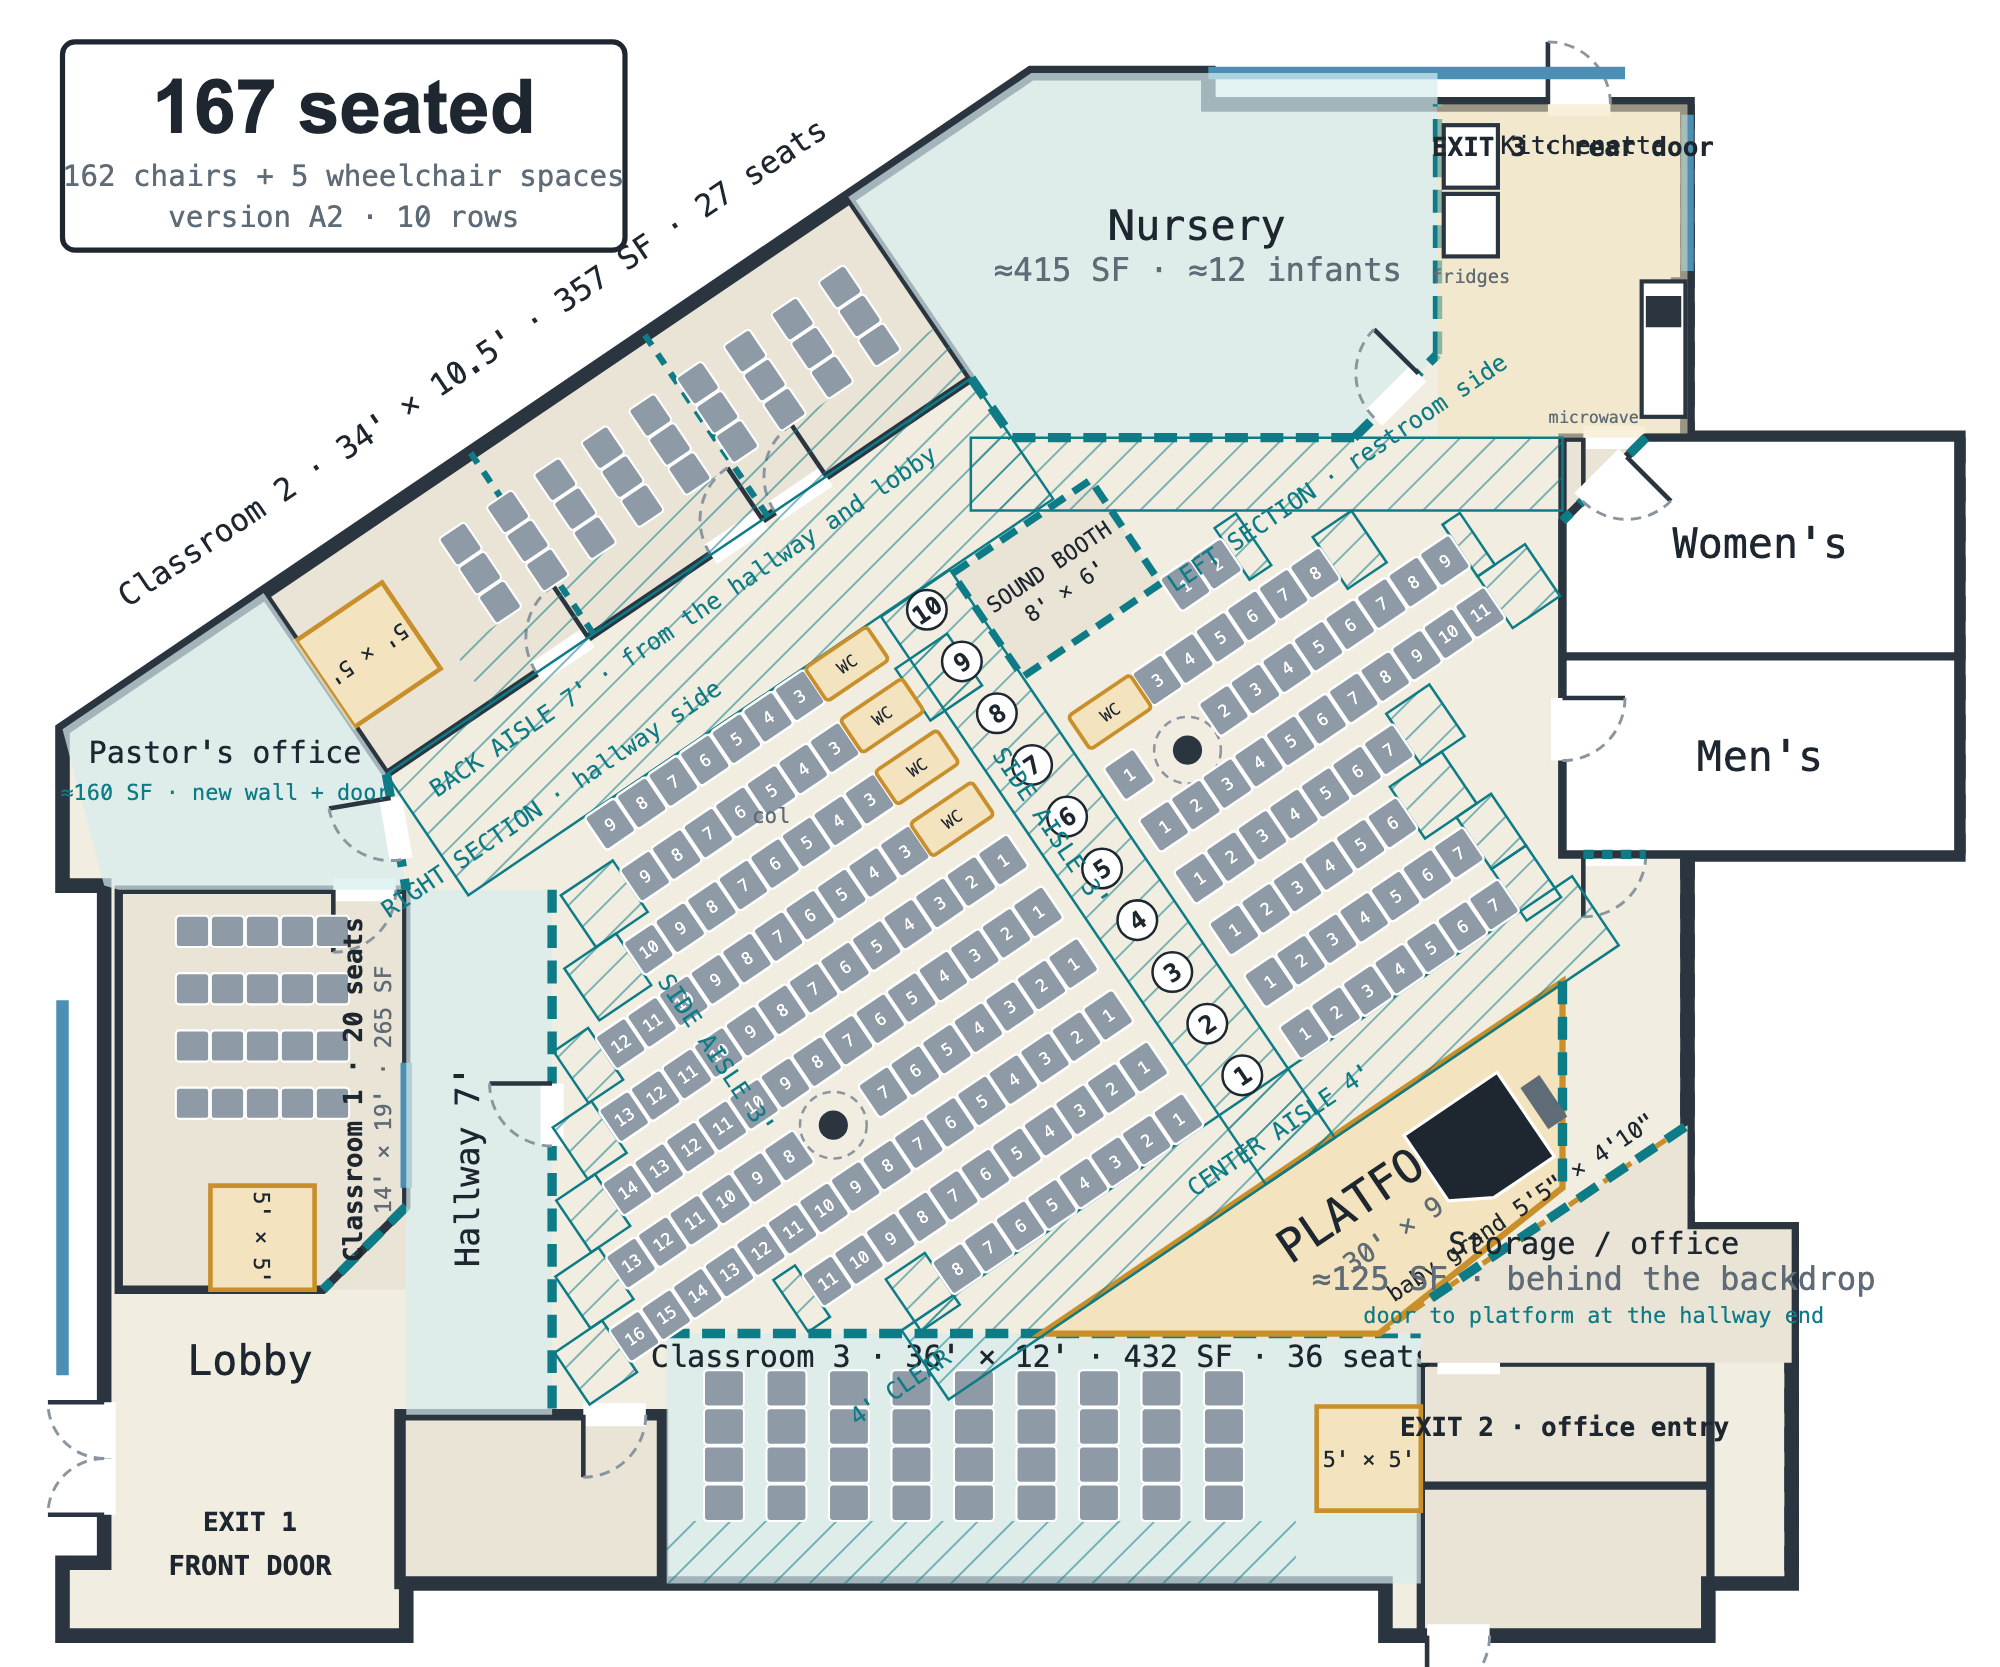
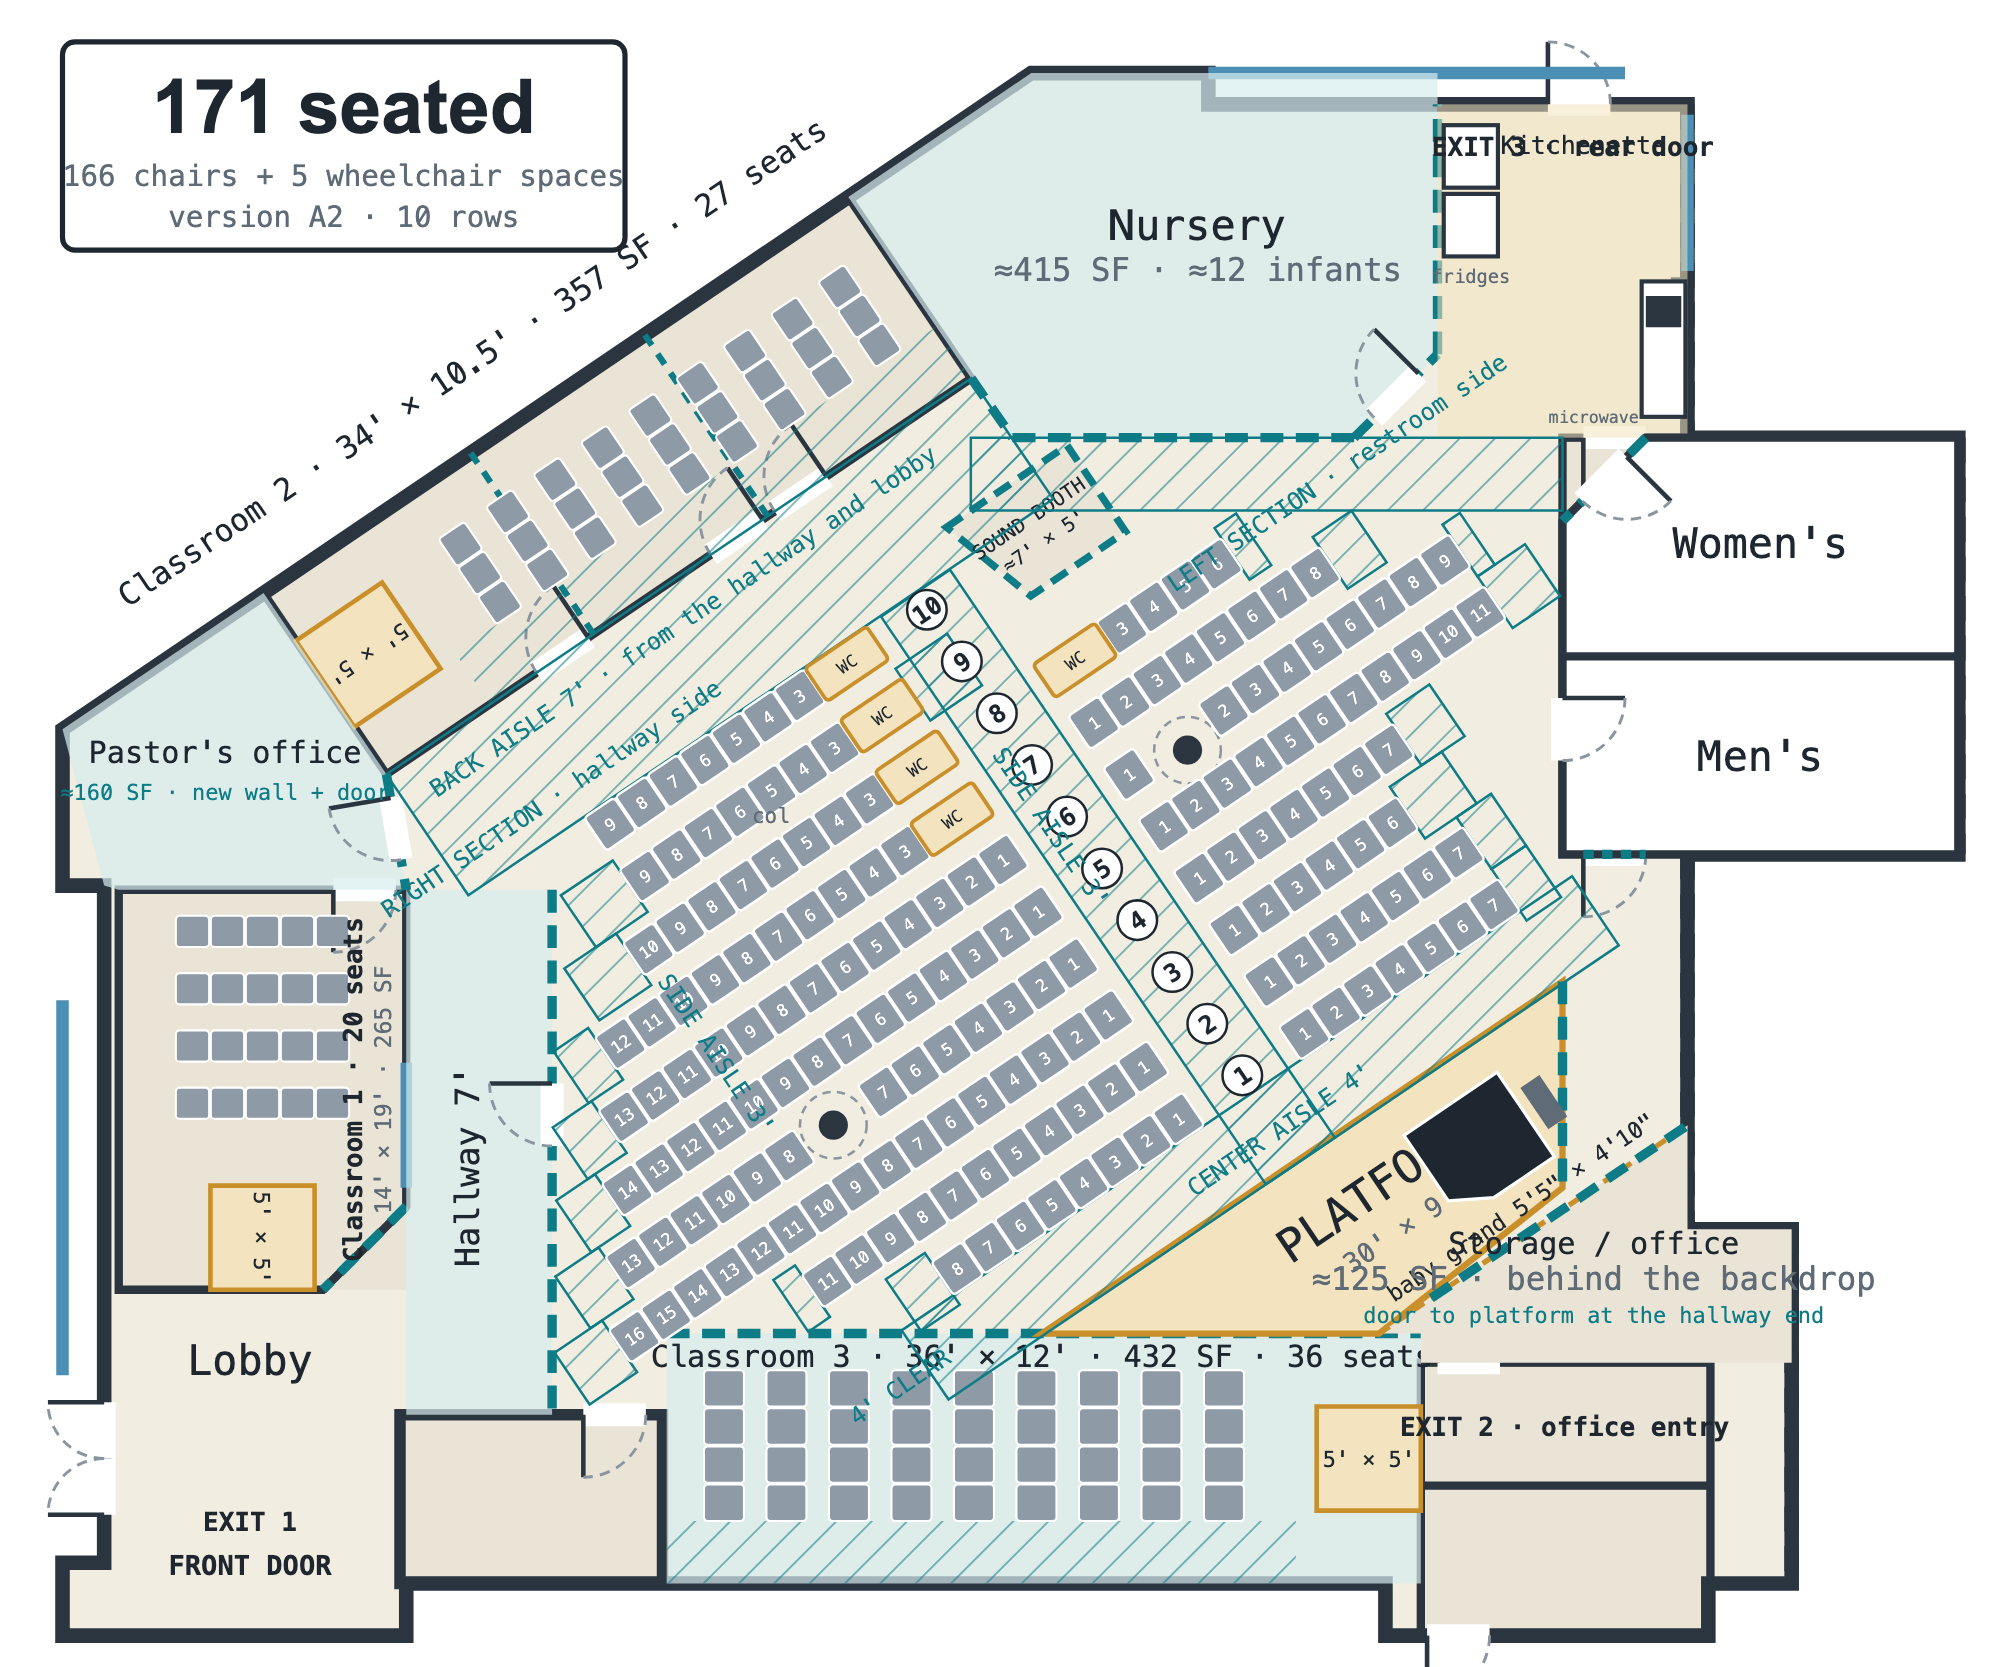
Trapezoid sound booth, neutral wording

Changed region(s): [[0.465, 0.2807, 0.589, 0.4679], [0.093, 0.0312, 0.155, 0.0936]]

diff --git a/plans.html b/plans.html
@@ -103,14 +103,14 @@
     <div class="sub">±5,685 RSF · 1 story · built 1999 · plan drawn 2026-10-20</div>
   </header>
 
-  <p>Two plans at the same scale. The first is the suite as it is today, traced from the Newmark listing brochure's floor plan and checked against the 20 walk-through photos. The second lays it out as a church with the main entry at the glass double door on the left (the building's visible front), the nursery beside the restrooms, and three classrooms. With the front door on the left and the restrooms on the right, the platform goes in the parking-lot corner and the seating fans toward it.</p>
+  <p>Two plans at the same scale. The first is the suite as it is today, traced from the Newmark listing brochure's floor plan and checked against the 20 walk-through photos. The others lay it out as a church with the main entry at the glass double door on the left (the building's visible front), the nursery beside the restrooms, and three classrooms. With the front door on the left and the restrooms on the right, the platform goes in the parking-lot corner and the seating fans toward it.</p>
   <p class="note">Accuracy: the brochure plan was scaled so the outlined suite encloses 5,685 SF, then cross-checked against 3-ft doors and 2×4 ceiling tiles. Expect ±2 ft on any dimension. The two columns are placed from the photos only; the brochure does not show them.</p>
 
   <h2>Existing conditions <span class="tag">as toured 2026-10-19</span></h2>
   <div class="plan" id="existing"></div>
   <div class="legend"><span class="l-exist">existing enclosed room</span><span class="l-glass">glass wall / window</span><span>door swing shown as arc</span><span>dashed = demising wall to leased space</span></div>
 
-  <h2>The plan: version A2 <span class="tag">corner platform, parking-lot corner · the preferred layout</span></h2>
+  <h2>Version A2 <span class="tag">corner platform, parking-lot corner</span></h2>
   <p>Lobby inside the left front door, 7 ft hallway up Classroom 1's wall to the back corner, 7 ft back aisle along the office row, nursery and women's room with 45° corner doors onto the back aisle, a kitchenette in the corner between them, three classrooms, corner platform in the parking-lot corner with the vestibule as the stage door.</p>
   <div class="plan" id="proposedB"></div>
   <div class="legend"><span class="l-exist">existing room, reused</span><span class="l-new">new wall / new room</span><span class="l-plat">platform</span><span class="l-chair">chair</span></div>
@@ -134,7 +134,7 @@
   </div>
 
   <h2>Other versions <span class="tag">A1 earlier · B south platform · C west platform</span></h2>
-  <p>Version A is the corner-platform family. A1 is the earlier pass of it; A2 above is the current one. Versions B and C keep the same rooms and move the platform to another wall; neither was chosen.</p>
+  <p>Version A is the corner-platform family. A1 is the earlier pass of it; A2 above is the current one. Versions B and C keep the same rooms and move the platform to another wall.</p>
   <h3 class="alt">Version A1, the earlier corner-platform layout</h3>
   <div class="plan" id="proposedA1"></div>
   <p class="verdict" id="verdictA1"></p>
@@ -165,7 +165,7 @@
         <thead><tr><th>Room (all options)</th><th>Size</th><th class="num">SF</th><th class="num">Seats</th></tr></thead>
         <tbody>
           <tr><td>Nursery (north strip plus the triangle to the classroom wall, 2 new walls, 45° corner door onto the back aisle; no teaching area)</td><td>irregular</td><td class="num">≈415</td><td class="num">≈12 infants</td></tr>
-          <tr><td>Sound booth, carved out of the back middle of the seating beside the center aisle</td><td>8 × 6</td><td class="num">48</td><td class="num"></td></tr>
+          <tr><td>Sound booth, trapezoid at the back middle of the seating beside the center aisle (7 ft at the back, 5.5 ft at the front, 5 ft deep; 2 ft of it sits in the back aisle, leaving 5 ft of aisle behind it)</td><td>≈7 × 5</td><td class="num">≈31</td><td class="num"></td></tr>
           <tr><td>Kitchenette (the old alcove): microwave, two refrigerators, rear exit path kept clear</td><td>12 × 16</td><td class="num">192</td><td class="num"></td></tr>
           <tr><td>Classroom 1 (existing 14 × 19 room, window into hall, corner cut at 45° toward the lobby), 5 × 5 teaching area, no aisle</td><td>14 × 19</td><td class="num">265</td><td class="num" id="seatsC1">—</td></tr>
           <tr><td>Classroom 2 (3 offices, remove 2 partitions), 5 × 5 teaching area</td><td>34 × 10.5</td><td class="num">357</td><td class="num" id="seatsC2">—</td></tr>
@@ -349,7 +349,7 @@
   const inPoly = (pt, poly) => { let c = false; for (let i = 0, j = poly.length - 1; i < poly.length; j = i++) { const a = poly[i], b = poly[j]; if ((a[1] > pt[1]) !== (b[1] > pt[1]) && pt[0] < (b[0] - a[0]) * (pt[1] - a[1]) / (b[1] - a[1]) + a[0]) c = !c; } return c; };
   const area = (poly) => Math.abs(poly.reduce((acc, p, i) => { const q = poly[(i + 1) % poly.length]; return acc + p[0] * q[1] - q[0] * p[1]; }, 0)) / 2;
   const Nn = [0.561, 0.828];
-  const BOOTH = (F) => [F.toW(-6, 7.25), F.toW(2, 7.25), F.toW(2, 13.25), F.toW(-6, 13.25)];
+  const BOOTH = (F) => [F.toW(-5, 5.25), F.toW(2, 5.25), F.toW(2, 10.25), F.toW(-3.5, 10.25)];
   const HALL = [Q(10.6), [48.6, 25], [75, 25], [75, 45], [81, 45], [81, 63], [86, 63], [86, 69.4], [68.2, 69.4], [68.2, 68], [32, 68], [32, 71.9], [26.5, 71.9], [26.5, 46.7], [19.5, 46.7], Q(44.5)];
   const OFFICE = [[3, 39], S(44.5), Q(44.5), [19.5, 46.7], [5.7, 46.7], [5, 46.5]];
   const FACEBAND = [Q(10.6), Q(44.5), [Q(44.5)[0] + 7 * Nn[0], Q(44.5)[1] + 7 * Nn[1]], [Q(10.6)[0] + 7 * Nn[0], Q(10.6)[1] + 7 * Nn[1]]];
@@ -541,7 +541,7 @@
       if (A1) { o += text(77, 65.5, 'backstage', 'fill="var(--muted)" font-size="1.3" text-anchor="middle"') + text(77, 67.2, 'stage door ↓', 'fill="var(--muted)" font-size="1.1" text-anchor="middle"') + text(75.1, 72.9, 'Vestibule', labS) + text(75.1, 79.6, 'stage door / exit', labS); }
       else o = platformExtras(o, newWall);
       if (A1) { const sd = frame.toW(-31.5, 2.6); o += `<g transform="rotate(-34.1 ${fmt(sd[0])} ${fmt(sd[1])})">${rect(fmt(sd[0]), fmt(sd[1]), 4.5, 2, 'fill="none" stroke="var(--wall)" stroke-width="0.2"')}<text x="${fmt(sd[0] + 2.25)}" y="${fmt(sd[1] + 1.5)}" fill="var(--muted)" font-size="1.05" text-anchor="middle">sound</text></g>`; }
-      else { const bp = BOOTH(frame); o += poly(bp, 'fill="var(--exist)" stroke="var(--accent)" stroke-width="0.35" stroke-dasharray="0.9 0.5"'); const bc = frame.toW(-2, 10.25); o += `<text x="${fmt(bc[0])}" y="${fmt(bc[1])}" fill="var(--ink)" font-size="1.05" text-anchor="middle" transform="rotate(-34.1 ${fmt(bc[0])} ${fmt(bc[1])})"><tspan x="${fmt(bc[0])}" dy="-0.3">Sound booth</tspan><tspan x="${fmt(bc[0])}" dy="1.4">8' × 6'</tspan></text>`; }
+      else { const bp = BOOTH(frame); o += poly(bp, 'fill="var(--exist)" stroke="var(--accent)" stroke-width="0.35" stroke-dasharray="0.9 0.5"'); const bc = frame.toW(-1.5, 7.75); o += `<text x="${fmt(bc[0])}" y="${fmt(bc[1])}" fill="var(--ink)" font-size="0.95" text-anchor="middle" transform="rotate(-34.1 ${fmt(bc[0])} ${fmt(bc[1])})"><tspan x="${fmt(bc[0])}" dy="-0.3">Sound booth</tspan><tspan x="${fmt(bc[0])}" dy="1.3">≈7' × 5'</tspan></text>`; }
       const bl = frame.toW(-14, 3.6);
       o += `<text x="${fmt(bl[0])}" y="${fmt(bl[1])}" fill="var(--muted)" font-size="1.2" text-anchor="middle" transform="rotate(-34.1 ${fmt(bl[0])} ${fmt(bl[1])})">back aisle 7' wide</text>`;
       const al = frame.toW(-8, 22);
@@ -646,7 +646,7 @@
     o += poly([[40.72, 13.45], [49.5, 7.5], [69, 7.5], [69, 21], [65, 25], [48.6, 25], [46.62, 22.15]], 'fill="var(--accent-soft)" stroke="none" opacity="0.7"');
     o += line(46.62, 22.15, 48.6, 25, newWall) + line(48.6, 25, 65, 25, newWall) + line(65, 25, 69, 21, newWall) + line(69, 21, 69, 9, newWall) + door(68.08, 21.92, 135, -1);
     o += text(57.5, 15.5, 'Nursery', lab) + text(57.5, 17.5, "≈415 SF · ≈12 infants", labS);
-    { const bp = BOOTH(F); o += poly(bp, 'fill="var(--exist)" stroke="var(--accent)" stroke-width="0.35" stroke-dasharray="0.9 0.5"'); const bc = F.toW(-2, 10.25); o += `<text x="${fmt(bc[0])}" y="${fmt(bc[1])}" fill="var(--ink)" font-size="1.05" text-anchor="middle" transform="rotate(-34.1 ${fmt(bc[0])} ${fmt(bc[1])})"><tspan x="${fmt(bc[0])}" dy="-0.3">SOUND BOOTH</tspan><tspan x="${fmt(bc[0])}" dy="1.4">8' × 6'</tspan></text>`; }
+    { const bp = BOOTH(F); o += poly(bp, 'fill="var(--exist)" stroke="var(--accent)" stroke-width="0.35" stroke-dasharray="0.9 0.5"'); const bc = F.toW(-1.5, 7.75); o += `<text x="${fmt(bc[0])}" y="${fmt(bc[1])}" fill="var(--ink)" font-size="0.95" text-anchor="middle" transform="rotate(-34.1 ${fmt(bc[0])} ${fmt(bc[1])})"><tspan x="${fmt(bc[0])}" dy="-0.3">SOUND BOOTH</tspan><tspan x="${fmt(bc[0])}" dy="1.3">≈7' × 5'</tspan></text>`; }
     o = kitchenette(o, newWall, true);
     o += poly([[79, 25], [94, 25], [94, 45], [75, 45], [75, 29]], 'fill="var(--panel)" stroke="none"') + poly([[79, 25], [94, 25], [94, 45], [75, 45], [75, 29]], innerAttr) + line(75, 35.5, 94, 35.5, innerAttr) + line(79, 25, 75, 29, newWall);
     o += door(78.08, 25.92, 135, 1) + door(75, 37.5, 90, 1) + line(76, 45, 79, 45, 'stroke="var(--accent)" stroke-width="0.45" stroke-dasharray="0.5 0.4"');

diff --git a/index.html b/index.html
@@ -37,7 +37,7 @@
 </style>
 
 <header>
-  <h1>10360 Old Placerville Rd, option B in 3D</h1>
+  <h1>10360 Old Placerville Rd, inside in 3D</h1>
   <div class="sub">same geometry as the plan · 1 unit = 1 ft · walls drawn to 9–10 ft · 21 × 23 in chairs in the hall and the adult class</div>
 </header>
 <div class="bar">
@@ -71,7 +71,7 @@
   const inPoly = (pt, poly) => { let c = false; for (let i = 0, j = poly.length - 1; i < poly.length; j = i++) { const a = poly[i], b = poly[j]; if ((a[1] > pt[1]) !== (b[1] > pt[1]) && pt[0] < (b[0] - a[0]) * (pt[1] - a[1]) / (b[1] - a[1]) + a[0]) c = !c; } return c; };
   const platform = [[50, 68], [75, 51.1], [75, 61], [66.2, 68]];
   const backstage = [[66.2, 68], [81, 58], [81, 63], [86, 63], [86, 69.4], [68.2, 69.4], [68.2, 68]];
-  const BOOTHP = [[-6, 7.25], [2, 7.25], [2, 13.25], [-6, 13.25]];
+  const BOOTHP = [[-5, 5.25], [2, 5.25], [2, 10.25], [-3.5, 10.25]];
   const keepOut = [platform, backstage, [[75, 45], [81, 45], [81, 50.5], [75, 50.5]], [[46.6, 25], [75, 25], [75, 28.5], [46.6, 28.5]], [[70.5, 35], [75, 35], [75, 42], [70.5, 42]], FACEBAND];
   const D = [-0.828, 0.561], O = Q(10.6);
   const toW = (X, Y) => [O[0] - D[0] * X + Nn[0] * Y, O[1] - D[1] * X + Nn[1] * Y];
@@ -201,7 +201,7 @@
   const nw = (a, b, gaps) => wall(a[0], a[1], b[0], b[1], HI, 0.45, M.newWall, gaps);
   nw([46.62, 22.15], [48.6, 25]); nw([48.6, 25], [65, 25]); nw([65, 25], [69, 21], [[1.3, 4.3]]); nw([69, 9], [69, 21]);
   // sound booth: 8 x 6 ft, 3.5 ft half walls, at the back middle of the seating beside the center aisle
-  { const c = toW(-2, 10.25); const b = box(8, 3.5, 6, new THREE.MeshLambertMaterial({ color: 0x4a5560 }), c[0], 1.75, c[1], -Math.atan2(-D[1], -D[0])); const desk = box(7.5, 0.2, 2.2, new THREE.MeshLambertMaterial({ color: 0xcfc6b4 }), c[0], 2.6, c[1]); desk.rotation.y = b.rotation.y; }
+  { const sh = new THREE.Shape(); BOOTHP.forEach((p, i) => { const w = toW(p[0], p[1]); i ? sh.lineTo(w[0], w[1]) : sh.moveTo(w[0], w[1]); }); sh.closePath(); const bm = new THREE.Mesh(new THREE.ExtrudeGeometry(sh, { depth: 3.5, bevelEnabled: false }), new THREE.MeshLambertMaterial({ color: 0x4a5560 })); bm.rotation.x = Math.PI / 2; bm.position.y = 3.5; bm.castShadow = true; scene.add(bm); const c = toW(-1.5, 7.75); const desk = box(5.5, 0.2, 2, new THREE.MeshLambertMaterial({ color: 0xcfc6b4 }), c[0], 2.7, c[1], -Math.atan2(-D[1], -D[0])); }
   // kitchenette: two refrigerators, counter with microwave
   [[11.5], [14.7]].forEach(([z]) => { const f = new THREE.Mesh(new THREE.BoxGeometry(2.5, 6, 3), new THREE.MeshLambertMaterial({ color: 0xd8dbe0 })); f.position.set(70.3, 3, z); f.castShadow = true; scene.add(f); });
   { const ct = new THREE.Mesh(new THREE.BoxGeometry(2, 3, 6.5), new THREE.MeshLambertMaterial({ color: 0xcfc6b4 })); ct.position.set(79.9, 1.5, 20.75); ct.castShadow = true; scene.add(ct); const mw = new THREE.Mesh(new THREE.BoxGeometry(1.6, 1.2, 1.8), new THREE.MeshLambertMaterial({ color: 0x2a2f36 })); mw.position.set(79.9, 3.6, 19); scene.add(mw); }
@@ -237,7 +237,7 @@
   // labels as sprites
   function label(txt, x, z, y, scale) { const cv = document.createElement('canvas'); cv.width = 512; cv.height = 128; const cx = cv.getContext('2d'); cx.fillStyle = 'rgba(15,20,25,0.72)'; cx.fillRect(0, 0, 512, 128); cx.font = '600 54px Archivo, Arial, sans-serif'; cx.fillStyle = '#F3F6F8'; cx.textAlign = 'center'; cx.textBaseline = 'middle'; cx.fillText(txt, 256, 64);
     const sp = new THREE.Sprite(new THREE.SpriteMaterial({ map: new THREE.CanvasTexture(cv), depthTest: false })); sp.position.set(x, y || 11, z); const s = scale || 1; sp.scale.set(14 * s, 3.5 * s, 1); scene.add(sp); return sp; }
-  label('PLATFORM', 64, 61, 6); label('NURSERY', 57.5, 16); label('SOUND BOOTH', toW(-2, 10.25)[0], toW(-2, 10.25)[1], 7, 0.6); label('CLASSROOM 1', 12.6, 56); label('CLASSROOM 2', 29, 29); label('CLASSROOM 3', 50, 74); label('LOBBY', 12, 73); label('HALLWAY', 23, 59, 10, 0.7);
+  label('PLATFORM', 64, 61, 6); label('NURSERY', 57.5, 16); label('SOUND BOOTH', toW(-1.5, 7.75)[0], toW(-1.5, 7.75)[1], 7, 0.6); label('CLASSROOM 1', 12.6, 56); label('CLASSROOM 2', 29, 29); label('CLASSROOM 3', 50, 74); label('LOBBY', 12, 73); label('HALLWAY', 23, 59, 10, 0.7);
   label("WOMEN'S", 84.5, 30, 10, 0.8); label("MEN'S", 84.5, 40.5, 10, 0.8); label('KITCHENETTE', 75, 15, 10, 0.75); label('MAIN ENTRY', 4, 74, 7, 0.8); label('STORAGE / OFFICE', 76.5, 65, 10, 0.7); label('STORAGE ENTRY', 75, 76, 10, 0.7); label("PASTOR'S OFFICE", 11, 41, 10, 0.75); label('PIANO', 71, 59, 7, 0.6);
 
   document.getElementById('count').textContent = `${hallSeats.length} chairs + ${wc.length} wheelchair spaces in the hall · ${classSeats} classroom seats`;
